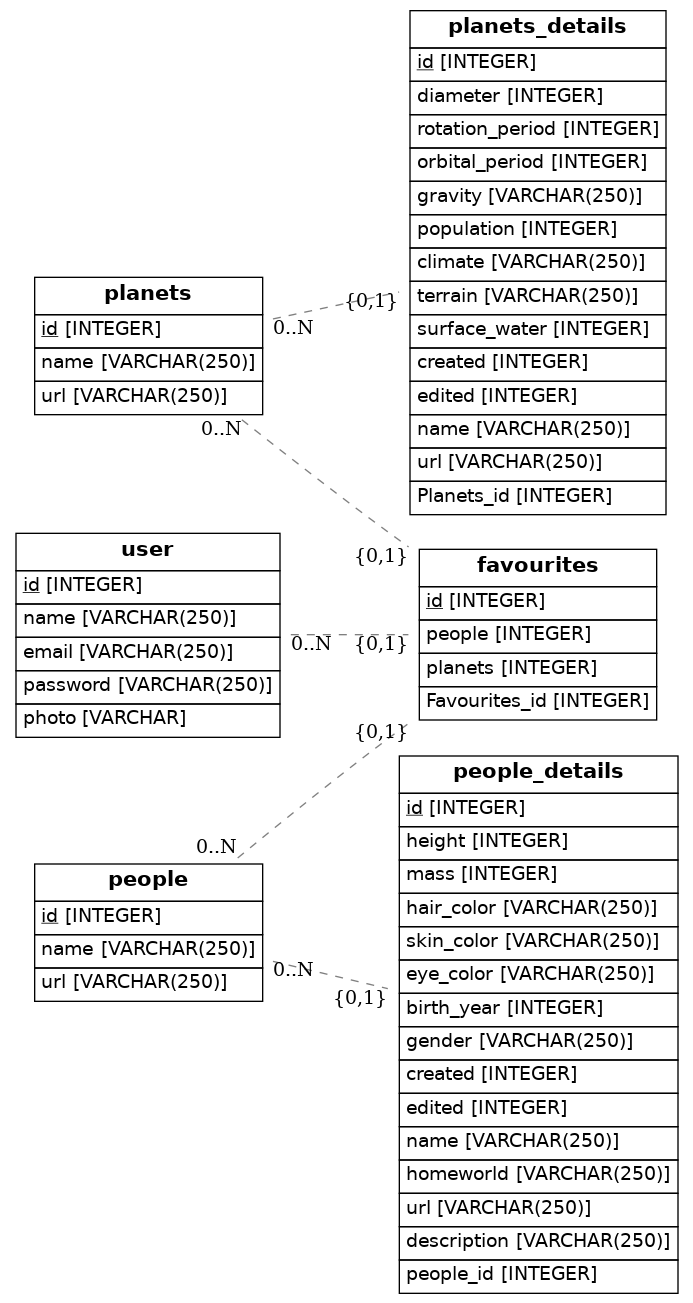
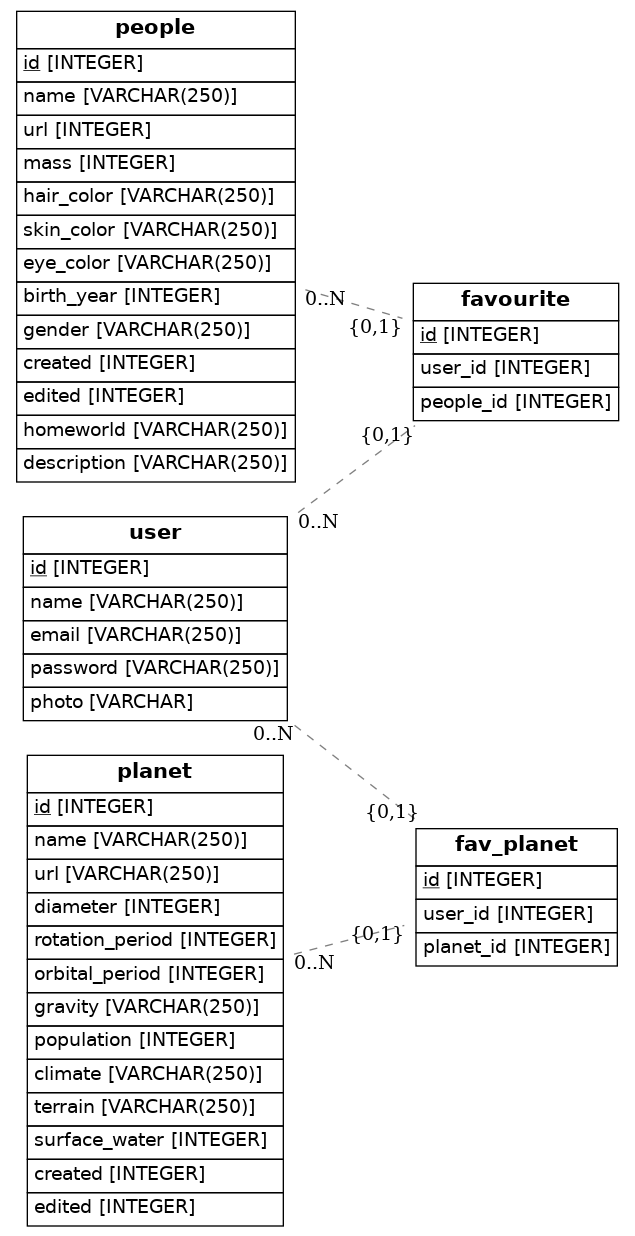
corrección de proyecto

Changed region(s): [[0.0, 0.0, 0.9874, 1.0], [0.5984, 0.4304, 0.9575, 0.5534], [0.5386, 0.4919, 0.5685, 0.5227]]

diff --git a/src/models.py b/src/models.py
@@ -8,22 +8,57 @@ from eralchemy import render_er
 
 Base = declarative_base()
 
+class User (Base):
+    __tablename__ = 'user'
+    id = Column(Integer, primary_key=True)
+    name = Column(String(250), nullable=False)
+    email = Column(String(250), unique = True, nullable=False)
+    password = Column(String(250), nullable=False)
+    photo = Column(String,nullable=False)
+
+    favourite_planets = relationship("Fav_Planet", backref="user")
+    favourite_people = relationship("Fav_People", backref="user")
+
+    def serialize(self):
+        return {
+            "id": self.id,
+            "name": self.name,
+            "email": self.email,
+            "photo": self.photo
+        }
+
+class Fav_People (Base):
+    __tablename__ = 'favourite'
+    id = Column(Integer, primary_key=True)
+    user_id = Column(Integer, ForeignKey('user.id'),nullable=False)
+    people_id = Column(Integer, ForeignKey('people.id'),nullable=False)
+
+    def serialize(self):
+        return {
+            "id": self.id,
+            "user": self.user_id,
+            "people": self.people_id,
+        }
+
+class Fav_Planet (Base):
+    __tablename__ = 'fav_planet'
+    id = Column(Integer, primary_key=True)
+    user_id = Column(Integer, ForeignKey('user.id'),nullable=False)
+    planet_id= Column(Integer, ForeignKey('planet.id'),nullable=False)
+
+    def serialize(self):
+        return {
+            "id": self.id,
+            "user": self.user_id,
+            "planet": self.planet_id,
+        }
+
 class People(Base):
     __tablename__ = 'people'
     id = Column(Integer, primary_key=True)
     name = Column(String(250), nullable=False)
     url = Column(String(250),nullable=False)
-
-class Planets(Base):
-    __tablename__ = 'planets'
-    id = Column(Integer, primary_key=True)
-    name = Column(String(250), nullable=False)
-    url = Column(String(250),nullable=False)
-
-class People_Details(Base):
-    __tablename__ = 'people_details'
-    id = Column(Integer, primary_key=True)
-    height = Column(Integer,nullable=False)
+    url = Column(Integer,nullable=False)
     mass = Column(Integer,nullable=False)
     hair_color = Column(String(250), nullable=False)
     skin_color = Column(String(250), nullable=False)
@@ -32,16 +67,34 @@ class People_Details(Base):
     gender = Column(String(250), nullable=False)
     created = Column(Integer, nullable=False)
     edited = Column(Integer, nullable=False)
-    name = Column(String(250), nullable=False)
     homeworld = Column(String(250), nullable=False)
-    url = Column(String(250), nullable=False)
     description = Column(String(250), nullable=False)
-    people_id = Column(Integer, ForeignKey('people.id'))
-    People = relationship(People)
+    Like_by_users = relationship("Fav_People", backref="people")
 
-class Planets_Details(Base):
-    __tablename__ = 'planets_details'
+    def serialize(self):
+        return {
+            "id": self.id,
+            "name": self.name,
+            "url": self.url,
+            "height": self.height,
+            "mass": self.mass,
+            "hair_color": self.hair_color,
+            "skin_color": self.skin_color,
+            "eye_color": self.eye_color,
+            "birth_year": self.birth_year,
+            "gender": self.gender,
+            "created": self.created,
+            "edited": self.edited,
+            "name": self.name,
+            "homeworld": self.homeworld,
+            "description": self.description,
+        }
+
+class Planet(Base):
+    __tablename__ = 'planet'
     id = Column(Integer, primary_key=True)
+    name = Column(String(250), nullable=False)
+    url = Column(String(250),nullable=False)
     diameter = Column(Integer,nullable=False)
     rotation_period = Column(Integer,nullable=False)
     orbital_period = Column(Integer, nullable=False)
@@ -52,29 +105,25 @@ class Planets_Details(Base):
     surface_water = Column(Integer, nullable=False)
     created = Column(Integer, nullable=False)
     edited = Column(Integer, nullable=False)
-    name = Column(String(250), nullable=False)
-    url = Column(String(250), nullable=False)
-    Planets_id = Column(Integer, ForeignKey('planets.id'))
-    Planets = relationship(Planets)
+    Like_by_users = relationship("Fav_Planet", backref="planet")
 
-class User (Base):
-    __tablename__ = 'user'
-    id = Column(Integer, primary_key=True)
-    name = Column(String(250), nullable=False)
-    email = Column(String(250), nullable=False)
-    password = Column(String(250), nullable=False)
-    photo = Column(String,nullable=False) 
 
-class Favourites (Base):
-    __tablename__ = 'favourites'
-    id = Column(Integer, primary_key=True)
-    people = Column(Integer, ForeignKey('people.id'))
-    planets = Column(Integer, ForeignKey('planets.id'))
-    Favourites_id = Column(Integer, ForeignKey('user.id'))
-    Favourites = relationship(User)
-
-    def to_dict(self):
-        return {}
+    def serialize(self):
+        return {
+            "id": self.id,
+            "name": self.name,
+            "url": self.url,
+            "diameter": self.diameter,
+            "rotation_period": self.rotation_period,
+            "orbital_period": self.orbital_period,
+            "gravity": self.gravity,
+            "population": self.population,
+            "climate": self.climate,
+            "terrain": self.terrain,
+            "surface_water": self.surface_water,
+            "created": self.created,
+            "edited": self.edited,
+        }
 
 ## Draw from SQLAlchemy base
 render_er(Base, 'diagram.png')
